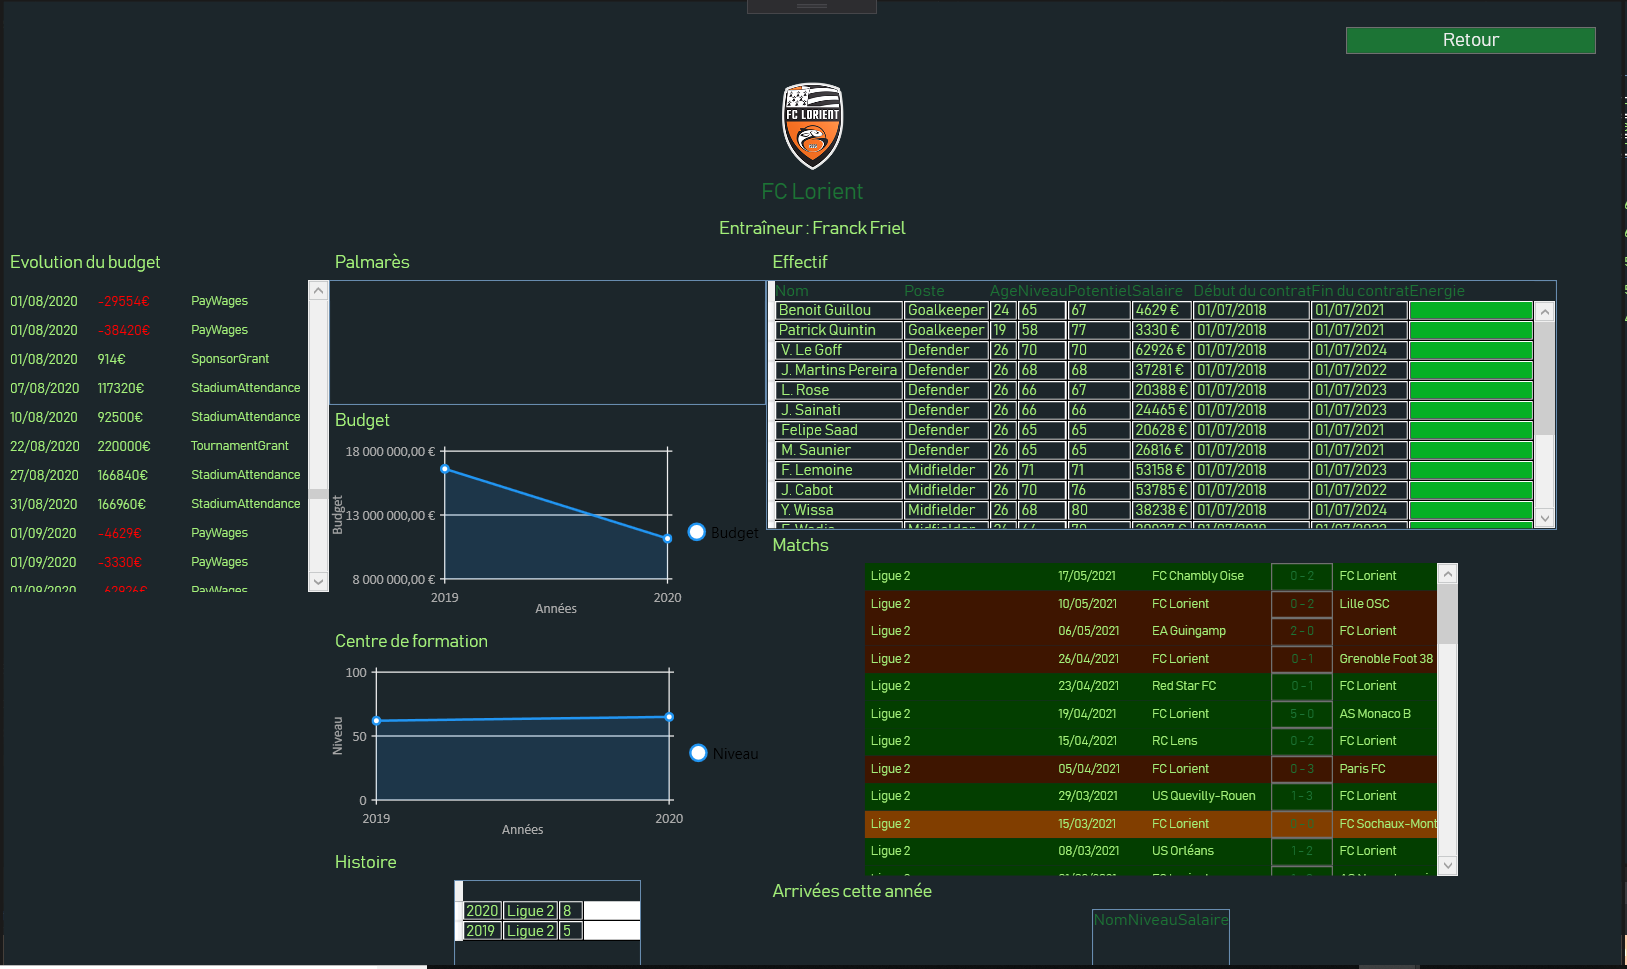
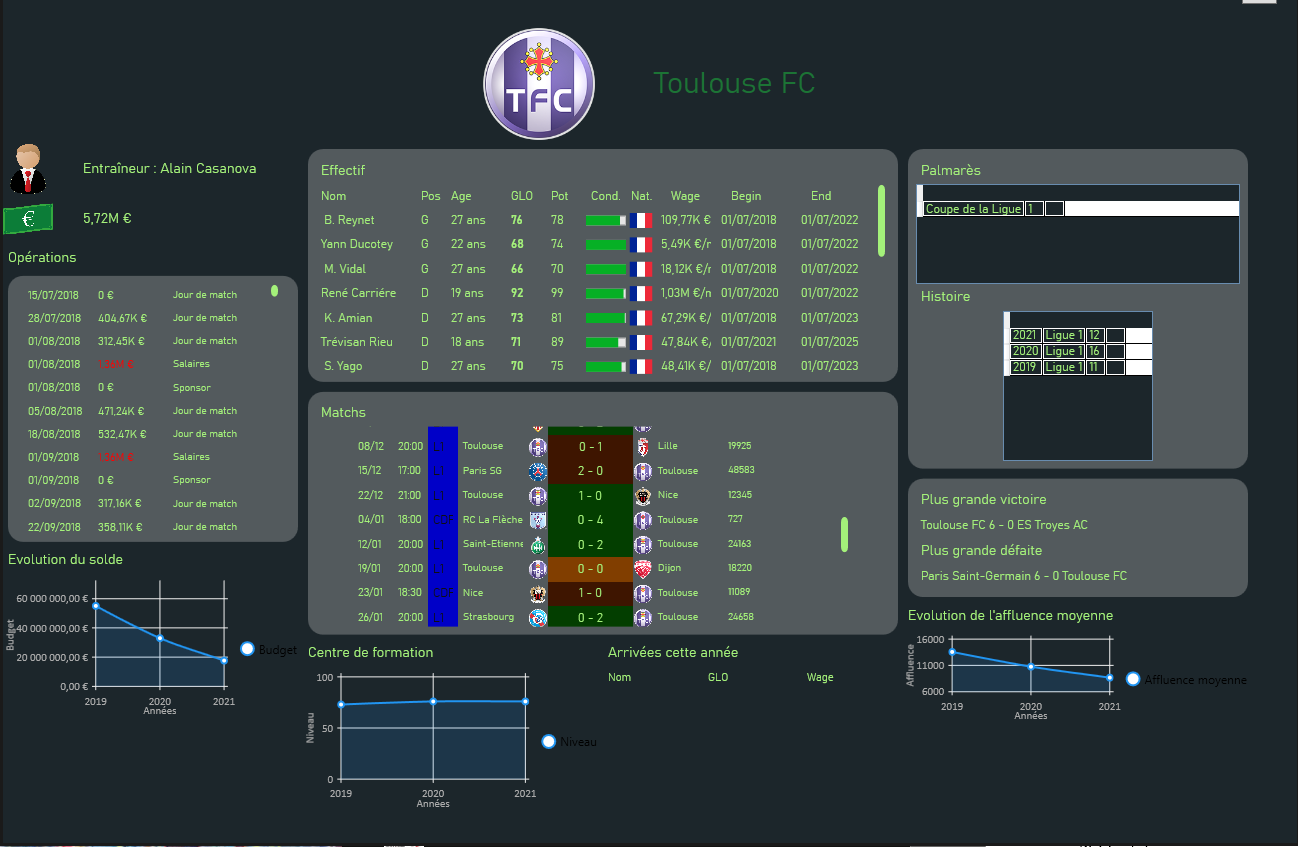
Work on Club interface

diff --git a/TheManager_GUI/ClubWindow.xaml b/TheManager_GUI/ClubWindow.xaml
@@ -6,30 +6,44 @@
         xmlns:local="clr-namespace:TheManager_GUI"
 		xmlns:lvc="clr-namespace:LiveCharts.Wpf;assembly=LiveCharts.Wpf"
 		mc:Ignorable="d"
-        Title="Windows_Club" Height="870" Width="1300" Style="{StaticResource StyleWindows}" Left="50" Top="50">
+        Title="Windows_Club" Height="900" Width="1300" Style="{StaticResource StyleWindows}" Left="50" Top="50">
     <Grid>
 		<StackPanel Orientation="Vertical">
-			<StackPanel Margin="20" Orientation="Vertical" Width="200" HorizontalAlignment="Right">
-				<Button Name="btnQuitter" Style="{StaticResource StyleButton1}" Content="Retour" Click="BtnQuitter_Click"/>
+			<StackPanel Margin="20" Orientation="Vertical" HorizontalAlignment="Right">
+				<Button Name="btnQuitter" Click="BtnQuitter_Click">
+					<Image Name="imgBtnQuitter" Source="Images/return.png" Width="25" Height="25" Margin="3"/>
+				</Button>
+
 			</StackPanel>
-			<Image Name="imgLogo" Width="75" Height="75"/>
-			<Label Name="lbClub"  Content="Club" Style="{StaticResource StyleLabel1}"/>
 			<StackPanel Orientation="Horizontal" HorizontalAlignment="Center">
-				<Label Name="lbEntraineur" Content="Entraineur : Antoine Kombouaré" Margin="0 0 25 0" Style="{StaticResource StyleLabel2}" HorizontalAlignment="Center"/>
-				<Label Name="lbBudget" Content="Budget : 4500000€" Margin="25 0 0 0" Style="{StaticResource StyleLabel2}" HorizontalAlignment="Center"/>
+				<Image Name="imgLogo" Width="120" Height="120"/>
+				<Label Name="lbClub"  Content="Club" Style="{StaticResource StyleLabel1}" FontSize="30" Margin="50,0,0,0" VerticalAlignment="Center"/>
+
+			</StackPanel>
+			<StackPanel Orientation="Horizontal" HorizontalAlignment="Center">
 			</StackPanel>
 			<StackPanel Orientation="Horizontal">
 				<!-- partie gauche -->
 				<StackPanel Orientation="Vertical">
-					<Label Content="Evolution du budget" Style="{StaticResource StyleLabel2}"/>
-					<ScrollViewer VerticalScrollBarVisibility="Auto" Height="250" Width="260">
-						<StackPanel Name="spBudget" Orientation="Vertical">
+					<StackPanel Orientation="Horizontal">
+						<Image Name="imgManager" Width="50" Height="50"/>
+						<Label Name="lbEntraineur" Content="Antoine Kombouaré" Margin="25 0 0 0" Style="{StaticResource StyleLabel2}" HorizontalAlignment="Center" VerticalAlignment="Center"/>
+					</StackPanel>
+					<StackPanel Orientation="Horizontal">
+						<Image Name="imgBudget" Width="50" Height="50"/>
+						<Label Name="lbBudget" Content="45M€" Margin="25 0 0 0" Style="{StaticResource StyleLabel2}" HorizontalAlignment="Center" VerticalAlignment="Center"/>
+					</StackPanel>
+					<Label Content="Opérations" Style="{StaticResource StyleLabel2}"/>
+					<Border Style="{StaticResource StyleBorderStackPanel}" Margin="5">
+						<ScrollViewer VerticalScrollBarVisibility="Auto" Height="250" Width="260">
+							<StackPanel Name="spBudget" Orientation="Vertical">
 
-						</StackPanel>
+							</StackPanel>
 
-					</ScrollViewer>
-					<Label Content="Budget" Style="{StaticResource StyleLabel2}"/>
-					<lvc:CartesianChart Width="350" Height="150" Series="{Binding BudgetsCollection}" LegendLocation="Right" >
+						</ScrollViewer>
+					</Border>
+					<Label Content="Evolution du solde" Style="{StaticResource StyleLabel2}"/>
+					<lvc:CartesianChart Width="300" Height="150" Series="{Binding BudgetsCollection}" LegendLocation="Right" >
 						<lvc:CartesianChart.AxisY>
 							<lvc:Axis Title="Budget" LabelFormatter="{Binding YFormatter}"></lvc:Axis>
 						</lvc:CartesianChart.AxisY>
@@ -37,23 +51,90 @@
 							<lvc:Axis Title="Années" Labels="{Binding LabelsAnnees}"></lvc:Axis>
 						</lvc:CartesianChart.AxisX>
 					</lvc:CartesianChart>
-					<Label Content="Records" Style="{StaticResource StyleLabel2}"/>
-					<Label Content="Plus grande victoire" Style="{StaticResource StyleLabel2}"/>
-					<Label Name="lbBiggestWin" Content="" FontSize="12" Style="{StaticResource StyleLabel2}"/>
-					<Label Content="Plus grande défaite" Style="{StaticResource StyleLabel2}"/>
-					<Label Name="lbBiggestLose" Content="" FontSize="12" Style="{StaticResource StyleLabel2}"/>
 
 				</StackPanel>
+				<!--Partie centrale-->
+				<StackPanel Orientation="Vertical" Width="600">
+
+					<Border Style="{StaticResource StyleBorderStackPanel}" Margin="5">
+						<StackPanel Orientation="Vertical">
+							<Label Content="Effectif" Style="{StaticResource StyleLabel2}"/>
+							<ScrollViewer VerticalScrollBarVisibility="Auto" Height="190">
+								<StackPanel Orientation="Vertical" Name="spPlayers">
+								</StackPanel>
+							</ScrollViewer>
+						</StackPanel>
+					</Border>
+
+					<Border Style="{StaticResource StyleBorderStackPanel}" Margin="5">
+						<StackPanel Orientation="Vertical">
+							<Label Content="Matchs" Style="{StaticResource StyleLabel2}"/>
+							<ScrollViewer VerticalScrollBarVisibility="Auto" Height="200" Width="500">
+								<StackPanel Name="spMatchs" Orientation="Vertical">
+								</StackPanel>
+							</ScrollViewer>
+						</StackPanel>
+					</Border>
+
+					<StackPanel Orientation="Horizontal">
+						<StackPanel Orientation="Vertical">
+							<Label Content="Centre de formation" Style="{StaticResource StyleLabel2}"/>
+							<lvc:CartesianChart Width="300" Height="150" Series="{Binding CFCollection}" LegendLocation="Right" >
+								<lvc:CartesianChart.AxisY>
+									<lvc:Axis Title="Niveau" MinValue="0" MaxValue="100"></lvc:Axis>
+								</lvc:CartesianChart.AxisY>
+								<lvc:CartesianChart.AxisX>
+									<lvc:Axis Title="Années" Labels="{Binding LabelsAnnees}"></lvc:Axis>
+								</lvc:CartesianChart.AxisX>
+							</lvc:CartesianChart>
+						</StackPanel>
+						<StackPanel Orientation="Vertical">
+							<Label Content="Arrivées cette année" Style="{StaticResource StyleLabel2}"/>
+							<ScrollViewer Height="150"  VerticalScrollBarVisibility="Auto">
+								<StackPanel Orientation="Vertical" Name="spArrivees">
+								</StackPanel>
+							</ScrollViewer>
+						</StackPanel>
+					</StackPanel>
+
+				</StackPanel>
+				<!-- partie droite -->
 				<StackPanel Orientation="Vertical">
-					<Label Content="Palmarès" Style="{StaticResource StyleLabel2}"/>
-					<DataGrid IsReadOnly="True" Name="dgPalmares" Height="100" MaxHeight="350" Style="{StaticResource StyleDataGrid}" CellStyle="{StaticResource StyleDataCellGrid}" ColumnHeaderStyle="{StaticResource StyleDataHeaderGrid}">
-						<DataGrid.Columns>
-							<DataGridTextColumn Header="" Binding="{Binding Competition}"/>
-							<DataGridTextColumn Header="" Binding="{Binding Nombre}"/>
-							<DataGridTextColumn Header="" Binding="{Binding Annees}"/>
-						</DataGrid.Columns>
-					</DataGrid>
-					<Label Content="Affluence moyenne" Style="{StaticResource StyleLabel2}"/>
+
+					<Border Style="{StaticResource StyleBorderStackPanel}" Margin="5">
+						<StackPanel Orientation="Vertical">
+							<Label Content="Palmarès" Style="{StaticResource StyleLabel2}"/>
+							<DataGrid IsReadOnly="True" Name="dgPalmares" Height="100" MaxHeight="350" Style="{StaticResource StyleDataGrid}" CellStyle="{StaticResource StyleDataCellGrid}" ColumnHeaderStyle="{StaticResource StyleDataHeaderGrid}">
+								<DataGrid.Columns>
+									<DataGridTextColumn Header="" Binding="{Binding Competition}"/>
+									<DataGridTextColumn Header="" Binding="{Binding Nombre}"/>
+									<DataGridTextColumn Header="" Binding="{Binding Annees}"/>
+								</DataGrid.Columns>
+							</DataGrid>
+
+							<Label Content="Histoire" Style="{StaticResource StyleLabel2}"/>
+							<DataGrid IsReadOnly="True" Name="dgHistorique" Height="150" MaxHeight="350" Width="150" MouseDoubleClick="DgHistorique_MouseDoubleClick" Style="{StaticResource StyleDataGrid}" CellStyle="{StaticResource StyleDataCellGrid}" ColumnHeaderStyle="{StaticResource StyleDataHeaderGrid}">
+								<DataGrid.Columns>
+									<DataGridTextColumn Header="" Binding="{Binding Annee}"/>
+									<DataGridTextColumn Header="" Binding="{Binding Competition}"/>
+									<DataGridTextColumn Header="" Binding="{Binding Classement}"/>
+									<DataGridTextColumn Header="" Binding="{Binding AverageAttendance}"/>
+								</DataGrid.Columns>
+							</DataGrid>
+						</StackPanel>
+					</Border>
+
+
+					<Border Style="{StaticResource StyleBorderStackPanel}" Margin="5">
+						<StackPanel Orientation="Vertical">
+							<Label Content="Plus grande victoire" Style="{StaticResource StyleLabel2}"/>
+							<Label Name="lbBiggestWin" Content="" FontSize="12" Style="{StaticResource StyleLabel2}"/>
+							<Label Content="Plus grande défaite" Style="{StaticResource StyleLabel2}"/>
+							<Label Name="lbBiggestLose" Content="" FontSize="12" Style="{StaticResource StyleLabel2}"/>
+						</StackPanel>
+					</Border>
+
+					<Label Content="Evolution de l'affluence moyenne" Style="{StaticResource StyleLabel2}"/>
 					<lvc:CartesianChart Width="350" Height="100" Series="{Binding AttendanceCollection}" LegendLocation="Right" >
 						<lvc:CartesianChart.AxisY>
 							<lvc:Axis Title="Affluence"></lvc:Axis>
@@ -62,46 +143,8 @@
 							<lvc:Axis Title="Années" Labels="{Binding LabelsAnnees}"></lvc:Axis>
 						</lvc:CartesianChart.AxisX>
 					</lvc:CartesianChart>
-					
-					<Label Content="Centre de formation" Style="{StaticResource StyleLabel2}"/>
-					<lvc:CartesianChart Width="350" Height="150" Series="{Binding CFCollection}" LegendLocation="Right" >
-						<lvc:CartesianChart.AxisY>
-							<lvc:Axis Title="Niveau" MinValue="0" MaxValue="100"></lvc:Axis>
-						</lvc:CartesianChart.AxisY>
-						<lvc:CartesianChart.AxisX>
-							<lvc:Axis Title="Années" Labels="{Binding LabelsAnnees}"></lvc:Axis>
-						</lvc:CartesianChart.AxisX>
-					</lvc:CartesianChart>
-					<Label Content="Histoire" Style="{StaticResource StyleLabel2}"/>
-					<DataGrid IsReadOnly="True" Name="dgHistorique" Height="150" MaxHeight="350" Width="150" MouseDoubleClick="DgHistorique_MouseDoubleClick" Style="{StaticResource StyleDataGrid}" CellStyle="{StaticResource StyleDataCellGrid}" ColumnHeaderStyle="{StaticResource StyleDataHeaderGrid}">
-						<DataGrid.Columns>
-							<DataGridTextColumn Header="" Binding="{Binding Annee}"/>
-							<DataGridTextColumn Header="" Binding="{Binding Competition}"/>
-							<DataGridTextColumn Header="" Binding="{Binding Classement}"/>
-							<DataGridTextColumn Header="" Binding="{Binding AverageAttendance}"/>
-						</DataGrid.Columns>
-					</DataGrid>
-				</StackPanel>
-				<!-- partie droite -->
-				<StackPanel Orientation="Vertical">
-					<Label Content="Effectif" Style="{StaticResource StyleLabel2}"/>
-					<ScrollViewer VerticalScrollBarVisibility="Auto" Height="190">
-						<StackPanel Orientation="Vertical" Name="spPlayers">
-						</StackPanel>
-					</ScrollViewer>
-					<Label Content="Matchs" Style="{StaticResource StyleLabel2}"/>
-					<ScrollViewer VerticalScrollBarVisibility="Auto" Height="225" Width="475">
-						<StackPanel Name="spMatchs" Orientation="Vertical">
 
-						</StackPanel>
 
-					</ScrollViewer>
-					
-					<Label Content="Arrivées cette année" Style="{StaticResource StyleLabel2}"/>
-					<ScrollViewer Height="150"  VerticalScrollBarVisibility="Auto">
-						<StackPanel Orientation="Vertical" Name="spArrivees">
-						</StackPanel>
-					</ScrollViewer>
 				</StackPanel>
 			</StackPanel>
 			

diff --git a/TheManager_GUI/ClubWindow.xaml.cs b/TheManager_GUI/ClubWindow.xaml.cs
@@ -105,6 +105,11 @@ namespace TheManager_GUI
         public Windows_Club(CityClub c)
         {
             InitializeComponent();
+
+            imgBudget.Source = new BitmapImage(new Uri(System.IO.Directory.GetCurrentDirectory() + "\\" + Utils.imagesFolderName + "\\budget.png"));
+            imgBtnQuitter.Source = new BitmapImage(new Uri(System.IO.Directory.GetCurrentDirectory() + "\\" + Utils.imagesFolderName + "\\return.png"));
+            imgManager.Source = new BitmapImage(new Uri(System.IO.Directory.GetCurrentDirectory() + "\\" + Utils.imagesFolderName + "\\manager.png"));
+
             _club = c;
             lbClub.Content = c.name;
 
@@ -117,7 +122,7 @@ namespace TheManager_GUI
                 lbEntraineur.Content = "Aucun entraîneur";
             }
 
-            lbBudget.Content = "Budget : " + Utils.FormatMoney(c.budget);
+            lbBudget.Content = Utils.FormatMoney(c.budget);
 
             try
             {

diff --git a/TheManager/Utils.cs b/TheManager/Utils.cs
@@ -438,6 +438,11 @@ namespace TheManager
 
         public static string FormatMoney(float money)
         {
+            bool negative = money < 0;
+            if(money < 0)
+            {
+                money = -money;
+            }
             float i = (float)Math.Pow(10, (int)Math.Max(0, Math.Log10(money) - 2));
             money = money / i * i;
 
@@ -448,7 +453,7 @@ namespace TheManager
             if (money >= 1000)
                 return (money / 1000D).ToString("0.##") + "K €";
 
-            return money.ToString("#,0") + " €";
+            return negative ? "-" : "" + money.ToString("#,0") + " €";
         }
 
         public static string GetDescription(this Enum value)

diff --git a/TheManager_GUI/ViewMisc/ViewPlayers.cs b/TheManager_GUI/ViewMisc/ViewPlayers.cs
@@ -207,7 +207,7 @@ namespace TheManager_GUI.ViewMisc
                 }
                 if (ContractEnd)
                 {
-                    string contractEnd = player.Club != null ? player.Club.FindContract(player).beginning.ToShortDateString() : "-";
+                    string contractEnd = player.Club != null ? player.Club.FindContract(player).end.ToShortDateString() : "-";
                     spPlayer.Children.Add(ViewUtils.CreateLabel(contractEnd, "StyleLabel2", FontSize, 80));
 
                 }
